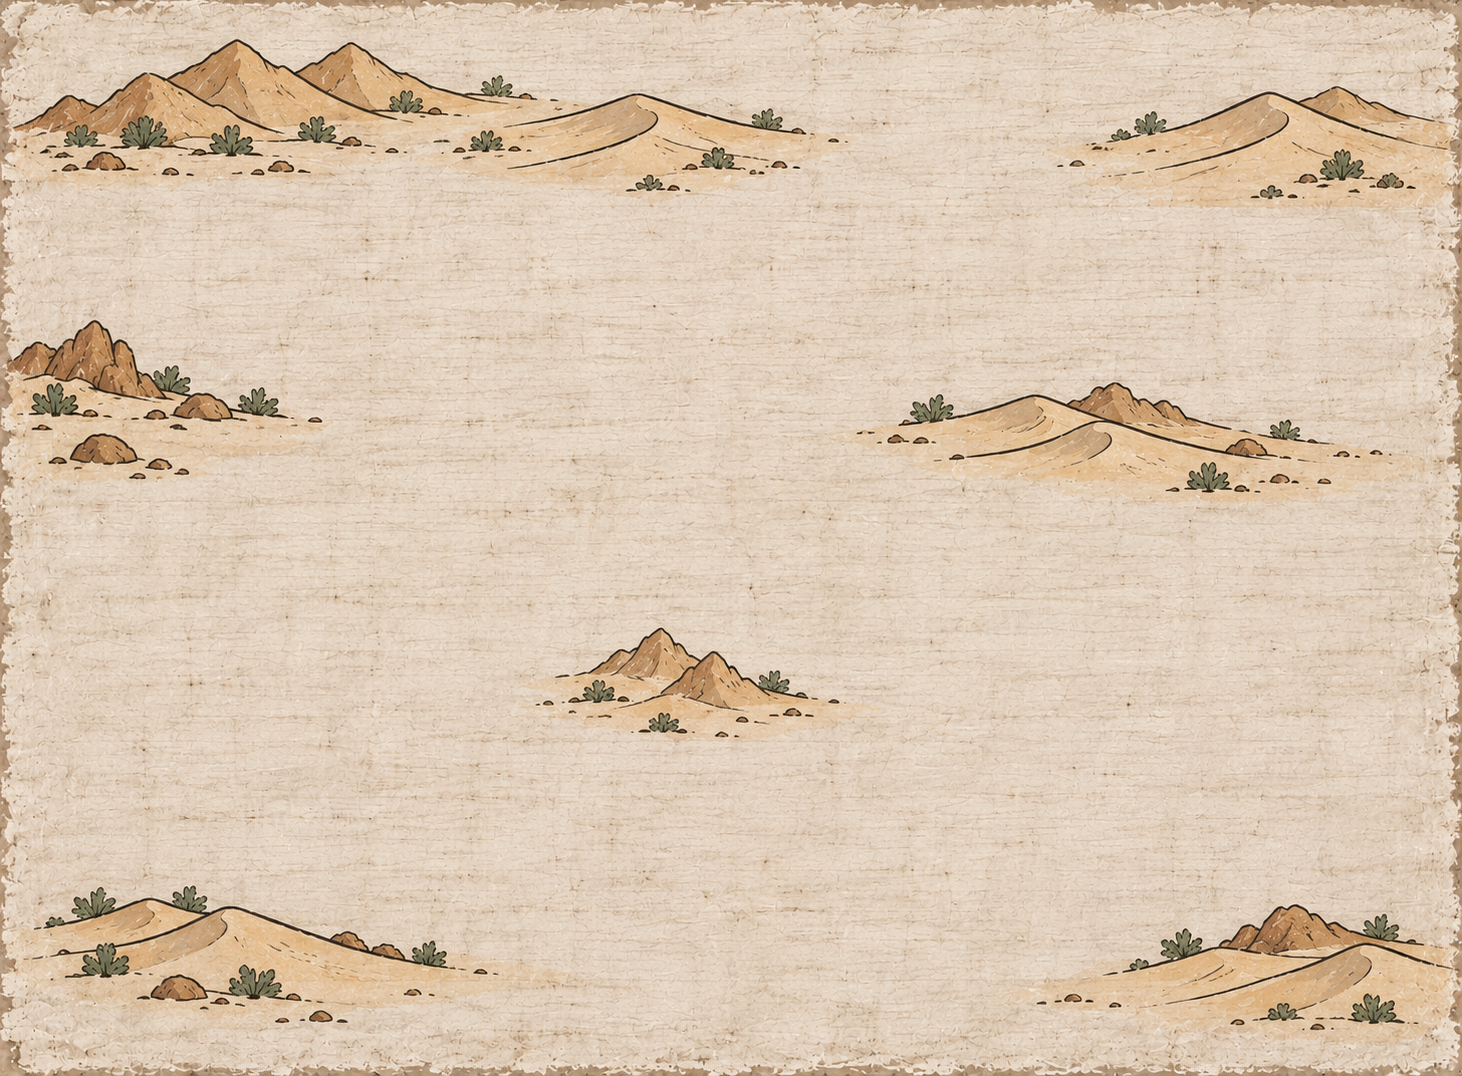
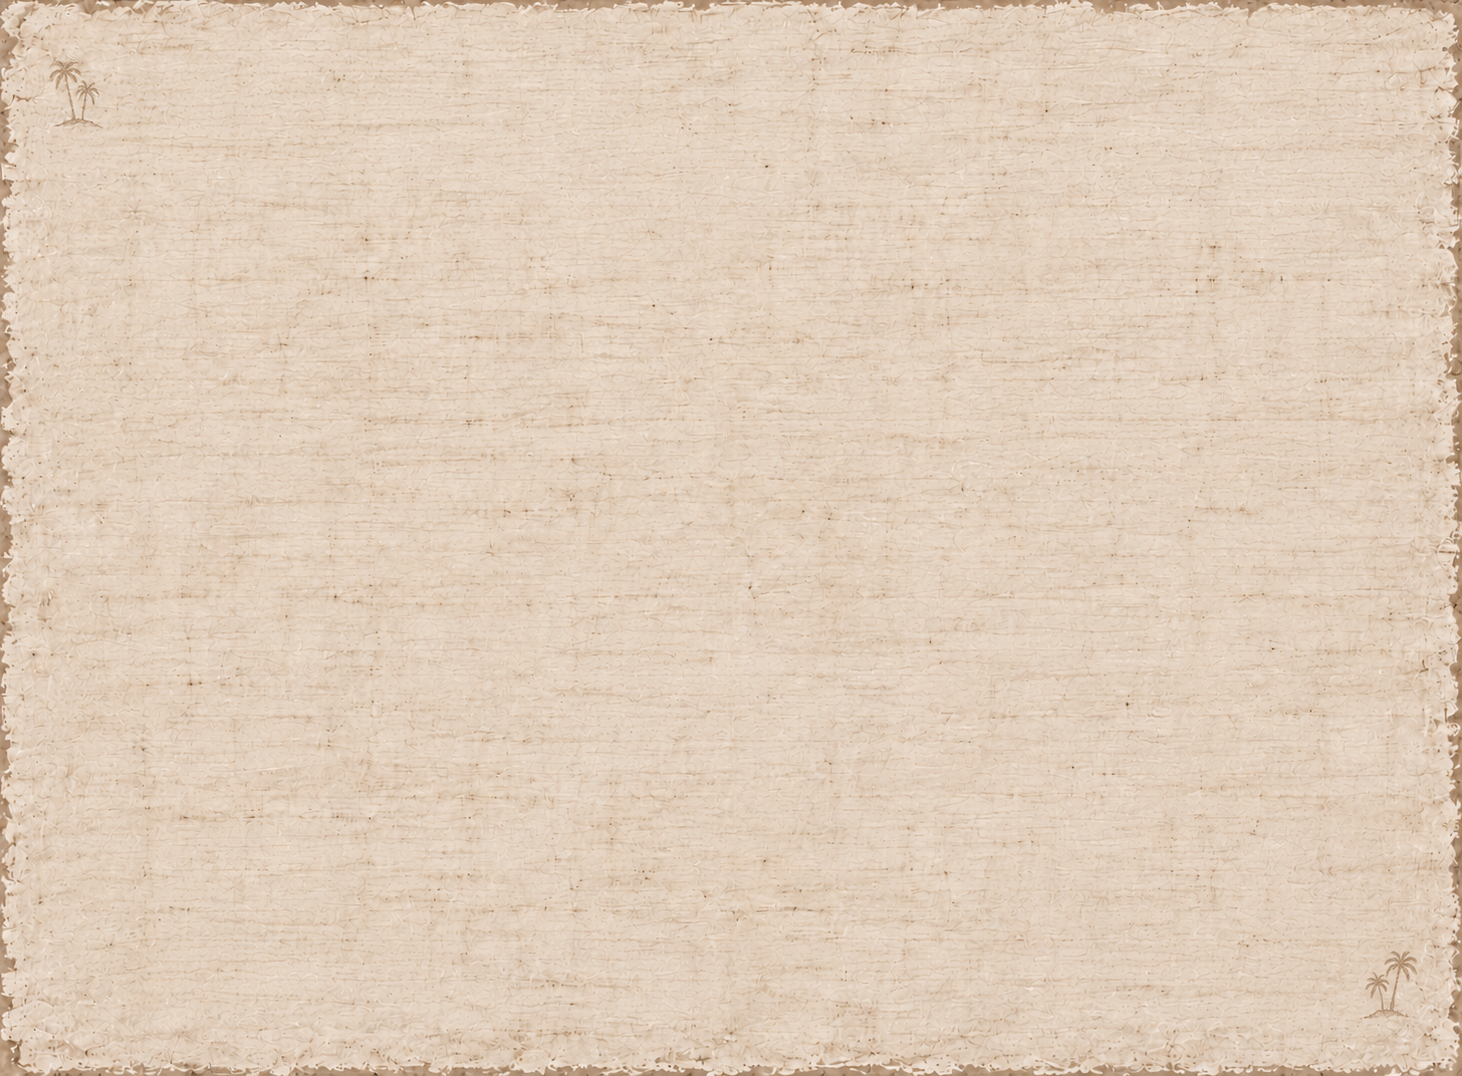
Soften map to worn parchment and replace house numerals with emblems

diff --git a/simulation/templates/simulation/house_mark.html b/simulation/templates/simulation/house_mark.html
@@ -1,1 +1,10 @@
-{% if owner == 'p1' %}I{% elif owner == 'p2' %}II{% else %}III{% endif %}
+<svg class="house-emblem" data-house-emblem="{% if owner == 'p1' %}sun{% elif owner == 'p2' %}lotus{% else %}palm{% endif %}" viewBox="-12 -12 24 24" x="-12" y="-12" width="24" height="24" fill="none" stroke="currentColor" stroke-width="1.7" stroke-linecap="round" stroke-linejoin="round" aria-hidden="true" focusable="false">
+    {% if owner == 'p1' %}
+        <circle r="4"/>
+        <path d="M0-10V-7M0 7V10M-10 0H-7M7 0H10M-7-7-5-5M5 5 7 7M-7 7-5 5M5-5 7-7"/>
+    {% elif owner == 'p2' %}
+        <path d="M0 5C-5 1-4-5 0-9 4-5 5 1 0 5ZM0 5C-7 5-10 0-9-5-4-5-1-1 0 5ZM0 5C7 5 10 0 9-5 4-5 1-1 0 5ZM-7 9H7M0 5V9"/>
+    {% else %}
+        <path d="M-2 10C0 5 1 0 0-5M0-5C-4-10-8-8-10-4M0-5C4-10 8-8 10-4M0-5C-5-6-8-2-8 1M0-5C5-6 8-2 8 1M0-5V-10M-5 10H4"/>
+    {% endif %}
+</svg>

diff --git a/simulation/templates/simulation/realm_map.html b/simulation/templates/simulation/realm_map.html
@@ -10,7 +10,7 @@
                     <polygon class="map-territory" points="{{ city.territory }}"/>
                     <g transform="translate({{ city.x|unlocalize }} {{ city.y|unlocalize }})">
                         {% include 'simulation/map_marker.html' with owned=city.owned reachable=city.reachable engaged=city.engaged %}
-                        <text class="map-sigil" y="6" text-anchor="middle" aria-hidden="true">{% include 'simulation/house_mark.html' with owner=city.owner %}</text>
+                        {% include 'simulation/house_mark.html' with owner=city.owner %}
                         <text class="map-name" y="62" text-anchor="middle">{{ city.name }}</text>
                     </g>
                 </a>

diff --git a/simulation/static/simulation/manuscript.css b/simulation/static/simulation/manuscript.css
@@ -679,11 +679,6 @@ input[type="number"] {
   paint-order: stroke;
   font-size: 30px;
 }
-.map-sigil {
-  fill: currentColor;
-  font-size: 18px;
-  font-weight: 600;
-}
 .house-p1 {
   color: #884725;
 }
@@ -714,8 +709,10 @@ input[type="number"] {
   height: 1.3rem;
   border: 1px solid currentColor;
   border-radius: 50%;
-  font-size: 0.7rem;
-  font-weight: 600;
+}
+.house-seal .house-emblem {
+  width: 1rem;
+  height: 1rem;
 }
 .map-key {
   width: 24px;

diff --git a/tests/test_mobile_folios.py b/tests/test_mobile_folios.py
@@ -80,6 +80,31 @@ def test_map(user, language):
 
 
 @case(
+    "folio-map-house-emblems",
+    "Owner map revision: distinct house emblems replace Roman numerals and match the legend",
+)
+@pytest.mark.parametrize("language", ["fr", "en"])
+def test_map_house_emblems(user, language):
+    game = services.create_game(user, "Seals", opponents="passive")
+    # A captured city bears its current owner's emblem.
+    game.state["cities"]["c1"]["owner"] = "p2"
+    game.save()
+    client = Client()
+    client.force_login(user)
+    client.cookies["django_language"] = language
+    html = client.get(reverse("game", args=[game.id]), {"tab": "wars"}).content.decode()
+    atlas = re.search(r'<figure class="realm-map".*?</figure>', html, re.S).group()
+    for owner, emblem in (("p1", "sun"), ("p2", "lotus"), ("p3", "palm")):
+        cities = re.findall(rf'<a class="map-city house-{owner}".*?</a>', atlas, re.S)
+        assert cities
+        assert all(f'data-house-emblem="{emblem}"' in city for city in cities)
+        legend = re.search(rf'<li class="house-{owner}">.*?</li>', atlas, re.S).group()
+        assert f'data-house-emblem="{emblem}"' in legend
+        assert 'aria-hidden="true"' in legend
+    assert 'class="map-sigil"' not in atlas
+
+
+@case(
     "folio-local-forge-http",
     "Local forge: Works exposes a multi-city form and one read-only preview/seal",
 )

diff --git a/docs/decisions.md b/docs/decisions.md
@@ -1,5 +1,11 @@
 # Implementation decisions
 
+## 2026-10-22 · Quiet parchment map and house emblems
+
+- The owner's follow-up supersedes the painted terrain direction below: remove mountains, dunes, rocks and scrub while preserving the pale worn parchment, fibres and rubbed edges. Only tiny faded palm sketches remain in two corners; no prominent relief competes with the cities.
+- Keep the local `map-terrain.png` background and public territory geometry. Replace Roman house numbers with restrained vector seals: sun for p1, lotus for p2 and palm for p3, shared by city markers and the house legend. Current ownership determines the seal; accessible city/house names and all reach/engagement markers remain intact.
+- This is Presentation work: lint/format, complete case-catalog collection, affected bilingual map and illustration cases on real PostgreSQL 17, and the bilingual browser smoke with narrow/enlarged layouts and no-JavaScript navigation. Review current and legacy maps and background decoding visually. No gameplay reference update is needed because game behavior is unchanged.
+
 ## 2026-10-22 · Match the map to the existing frescoes
 
 - Replace the yellow, finely shaded terrain background with a redraw using the actual Council and cityscape images as style references. Match Council's pale ivory fibrous papyrus, rubbed mineral pigment and softly abraded edges; simplify mountains, dunes, rocks and scrub into flat shapes with stronger brown contours. Avoid the previous golden wash, realistic crag shading and heavy cracked/burnt parchment treatment.
